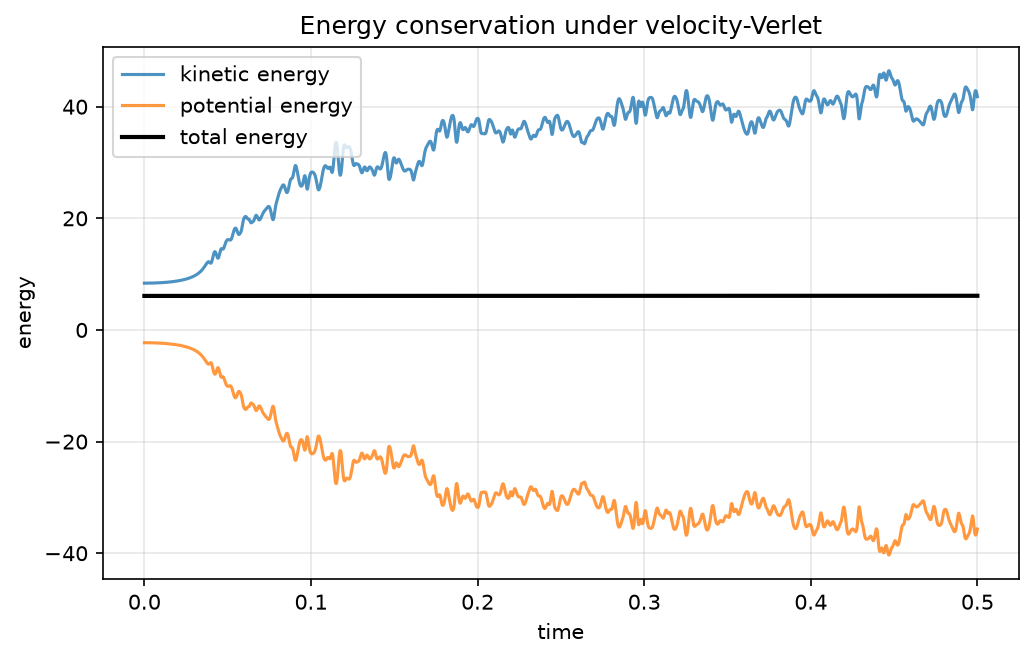
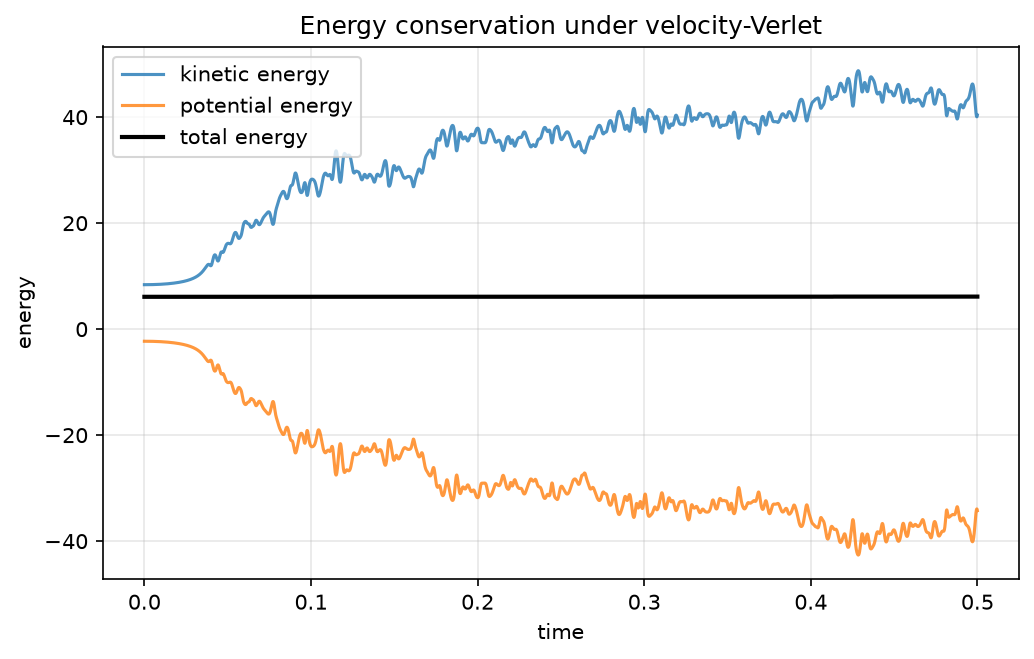
vdw_gas.py: fix torch.linalg.norm bottleneck (4.1x speedup)
Profiling showed torch.linalg.norm(rij, dim=0) -- used to get pairwise
distances in lj_force and lj_potential_energy -- was 68% of per-step
runtime and 109x slower than a manual sqrt(x^2+y^2) for this 2D case
(same generic-N-dimension dispatch overhead pattern found in
retarded_fields.py's np.linalg.norm earlier). Fixing it: 500 steps at
N=400 went from 3.37s to 0.83s. Re-verified against Validation.ipynb --
force still matches -dU/dr to 3.2e-10, energy conservation still holds
(0.65% over 10,000 steps, same order as before the fix).

diff --git a/Thermodynamics/Van_der_Waals_Gas/vdw_gas.py b/Thermodynamics/Van_der_Waals_Gas/vdw_gas.py
@@ -38,7 +38,7 @@ def lj_force(r, ids_pairs, epsilon, sigma):
     """
     i, j = ids_pairs[:, 0], ids_pairs[:, 1]
     rij = r[:, i] - r[:, j]
-    dist = torch.linalg.norm(rij, dim=0)
+    dist = torch.sqrt(rij[0]**2 + rij[1]**2)
     Fmag = lj_force_magnitude(dist, epsilon, sigma)
     Fvec = Fmag / dist * rij
 
@@ -54,7 +54,8 @@ def lj_force(r, ids_pairs, epsilon, sigma):
 def lj_potential_energy(r, ids_pairs, epsilon, sigma):
     """Total Lennard-Jones potential energy, summed over all pairs."""
     i, j = ids_pairs[:, 0], ids_pairs[:, 1]
-    dist = torch.linalg.norm(r[:, i] - r[:, j], dim=0)
+    rij = r[:, i] - r[:, j]
+    dist = torch.sqrt(rij[0]**2 + rij[1]**2)
     return torch.sum(lj_potential(dist, epsilon, sigma))
 
 
